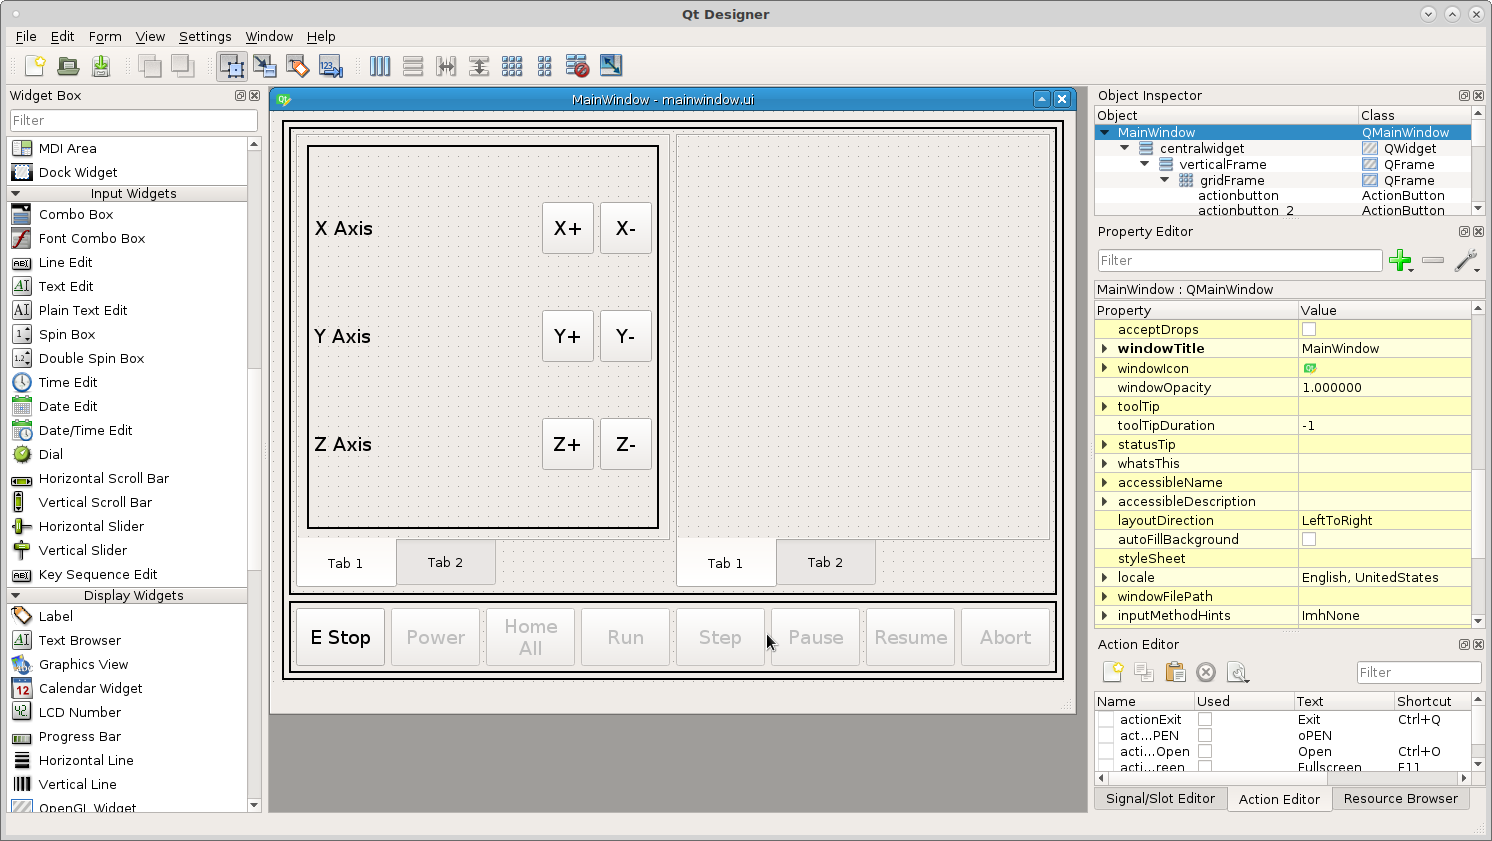
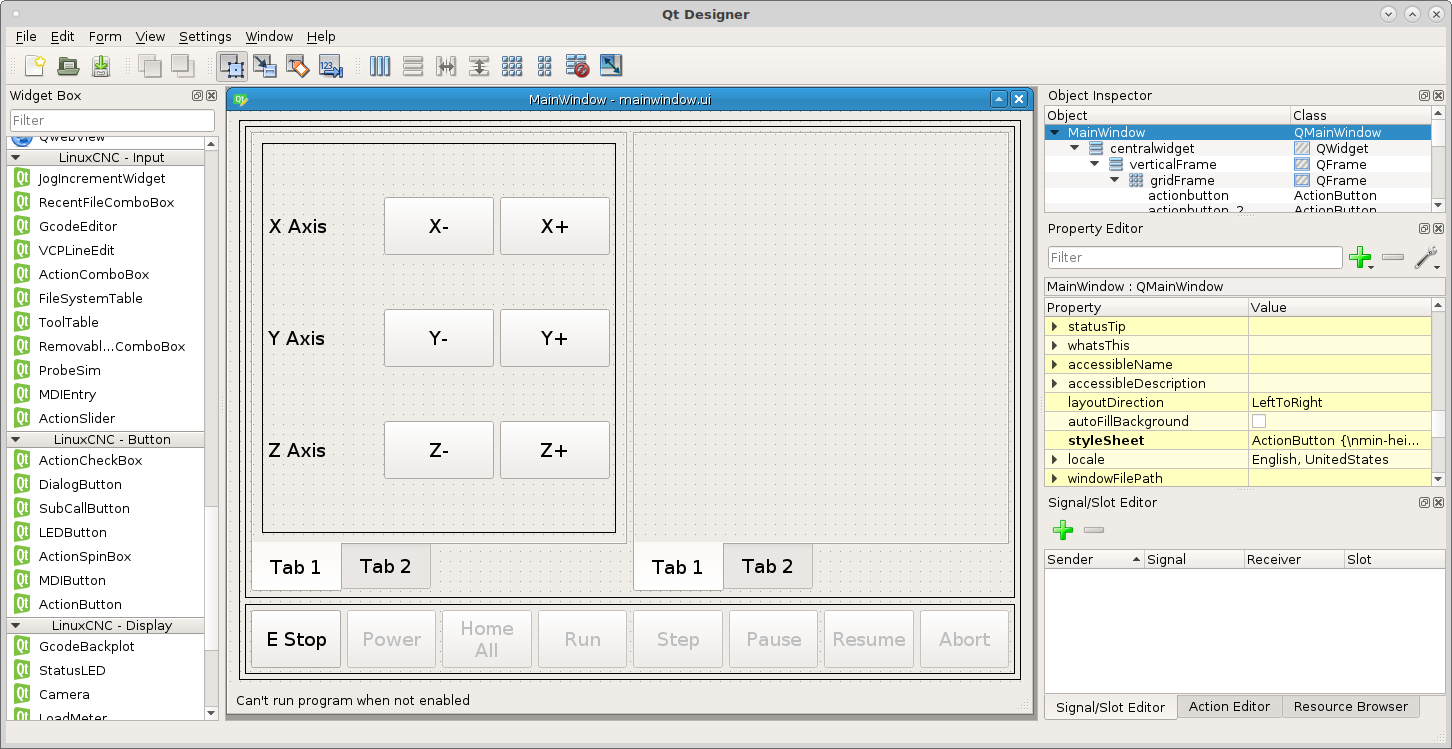
DOC: update tutorial for new datachannels

Changed region(s): [[0.0, 0.0, 1.0, 0.9826]]

diff --git a/docs/source/tutorials/basic_vcp_04.rst b/docs/source/tutorials/basic_vcp_04.rst
@@ -31,7 +31,8 @@ Notice how we set the `QLabel` font inside the frame, if we wanted to set all
    :scale: 40 %
 
 Now lets drag some `actionButtons` into the left panel for jogging controls and
-some standard labels from the `Display Widgets` for each axis.
+some standard labels from the `Display Widgets` for each axis and change the
+text to match the following.
 
 .. image:: images/vcp1-designer-14.png
    :align: center
@@ -48,8 +49,11 @@ Add the following `actionNames` to the jog buttons.
     machine.jog.axis:z,neg
     machine.jog.axis:z,pos
 
+Notice how the buttons become disabled as you add the actionNames. The action is
+controlling the button enable.
+
 In the right hand `QTabWidget` do as above and drag a grid into Tab 1 and set
-the layout to grid and add the box and the margins to 5. Now drag a
+the layout to grid and change to a box frame and the margins to 5. Now drag a
 `GcodeBackplot` into the frame so you can see it move when you jog.
 
 To change the tab name select the tab widget and change the `current tab name`.
@@ -57,6 +61,9 @@ To change the tab name select the tab widget and change the `current tab name`.
 .. image:: images/vcp1-run-06.png
    :align: center
    :scale: 60 %
+
+.. Note::
+    At this time the jog slider is being worked on so skip this section for now.
 
 Drag a grid layout below the jog buttons in the tab. Drag the edge until it
 fills the tab left to right and morph it into a `QGroupBox` and set the title to
@@ -121,6 +128,10 @@ Now we can see the slider in action.
 
 **DRO**
 
+.. Note::
+    At this time the `DROWidget` is being reworked so it does not work.
+
+
 Add a `DROWidget` between the jog buttons and the axis labels and set the axis
 and the reference_type to `Relative` and select the correct axis for each one.
 
@@ -133,3 +144,15 @@ Now when we run the VCP we can see the DRO's change when we jog an axis.
 .. image:: images/vcp1-run-08.png
    :align: center
    :scale: 60 %
+
+For now we can use a `StatusLabel` to display the positions. Drag three status
+labels between the jog buttons and the labels and create a rule for each one.
+
+The channels for each one are from the positions status so type in `p` and pick
+position:rel and add the rest like this. The expression is ``ch[0]``.
+::
+
+    position:rel?string&axis=x
+    position:rel?string&axis=y
+    position:rel?string&axis=z
+

diff --git a/docs/source/tutorials/basic_vcp_03.rst b/docs/source/tutorials/basic_vcp_03.rst
@@ -35,32 +35,31 @@ makes them a toggle button.
 Now we need to add a couple of rules to the `Home` button. The first rule will
 set the text of the button based on if all the joints are homed or not. Double
 click on the button to open the `Rules Editor` and add a new rule. The
-`Property` is Text. Add three channels with the following and make sure
-`Trigger` is checked in each one.
+`Property` is Text. Click in the blue channel box and type `s` now pick
+`status:all_axes_homed` from the list. Notice the type is `bool` which is a true
+false type and that is what we want for this.
 ::
 
-    status:joint[0].homed
-    status:joint[1].homed
-    status:joint[2].homed
+    status:all_axes_homed
 
 The expression to change the text of the button is::
 
-    'Homed' if ch[0] and ch[1] and ch[2] else 'Home\nAll'
+    'Homed' if ch[0] else 'Home\nAll'
 
 Notice that 'Home\\nAll' has a new line character `\\n` in it.
 
 .. image:: images/vcp1-designer-09.png
    :align: center
-   :scale: 40 %
+   :scale: 60 %
 
-The second rule will have the same channels but the property will be for the
+The second rule will have the same channel but the property will be for the
 `Style Sheet` with the following expression::
 
-    "background-color:rgb(138, 226, 52)" if ch[0] and ch[1] and ch[2] else ''
+    'background-color:rgb(138, 226, 52)' if ch[0]else ''
 
 .. image:: images/vcp1-designer-10.png
    :align: center
-   :scale: 40 %
+   :scale: 60 %
 
 Now when we run the VCP you can see the buttons in action.
 

diff --git a/docs/source/tutorials/basic_vcp_02.rst b/docs/source/tutorials/basic_vcp_02.rst
@@ -12,9 +12,10 @@ it and morph into a `QFrame`.
    :align: center
    :scale: 40 %
 
-In the `Property Editor` on the right side change the Frame Shape to a `Box` and
-change the margins (left, right, top and bottom) to 5, this makes it easier to
-see the blue line when dragging other layouts into the frame.
+In the `Property Editor` on the right side change the Frame Shape from
+`No Frame` to a `Box` and change the margins (left, right, top and bottom) to 5,
+this makes it easier to see the blue line when dragging other layouts into the
+frame.
 
 .. image:: images/vcp1-designer-03.png
    :align: center
@@ -27,7 +28,8 @@ can see the space between the inner and outer frames very well.
    :align: center
    :scale: 40 %
 
-Now drag a horizontal layout above the grid and change as above.
+Now drag a horizontal layout above the grid and inside the vertical layout and
+change as above.
 
 .. image:: images/vcp1-designer-05.png
    :align: center
@@ -43,7 +45,8 @@ into it.
 
 Now we want to change the tab widgets to be more touch screen friendly. To set
 the size of tabs in a `Tab Widget` add the following into the 
-`QFrame styleSheet` that has the Tab Widgets in it.
+`QFrame styleSheet` that has the Tab Widgets in it. This is how you change the
+style of everything in a container in one place.
 ::
 
     QTabBar::tab {

diff --git a/docs/source/tutorials/basic_vcp_01.rst b/docs/source/tutorials/basic_vcp_01.rst
@@ -17,7 +17,8 @@ structure needed to build a VCP. In a terminal::
 To make copy the `VCP Template` for this tutorial in the terminal first change
 to the `vcp-template` directory then run `tutorial.sh` and use a new name that
 contains only letters, numbers and the underscore _. For this tutorial I used
-`vcp1` so all examples will use that name
+`vcp1` so all examples will use that name. Pick yes to copy the LinuxCNC
+Configuration files.
 ::
 
     cd vcp-template
